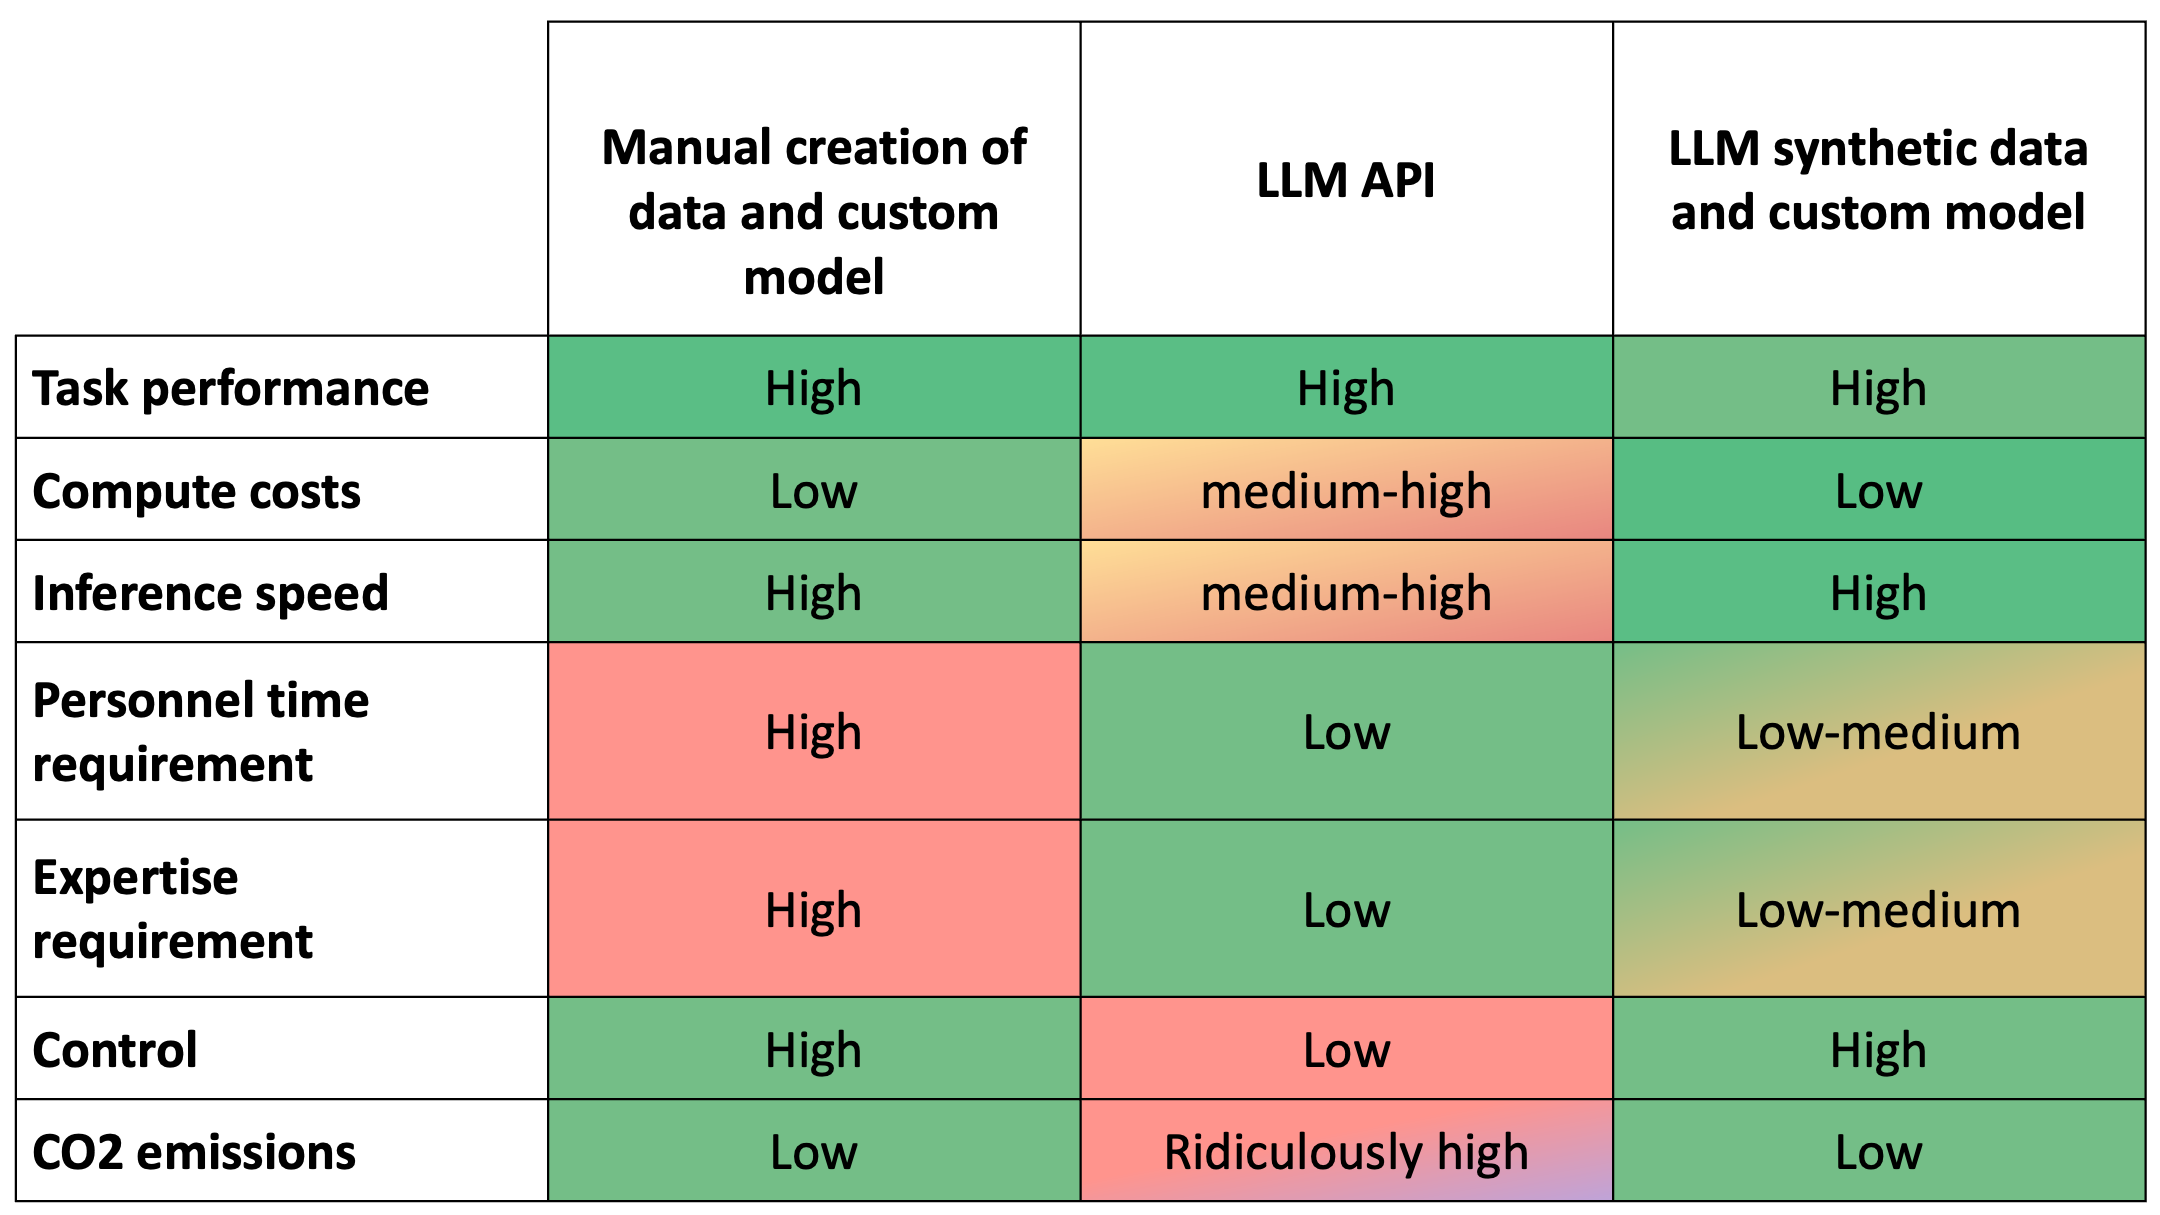
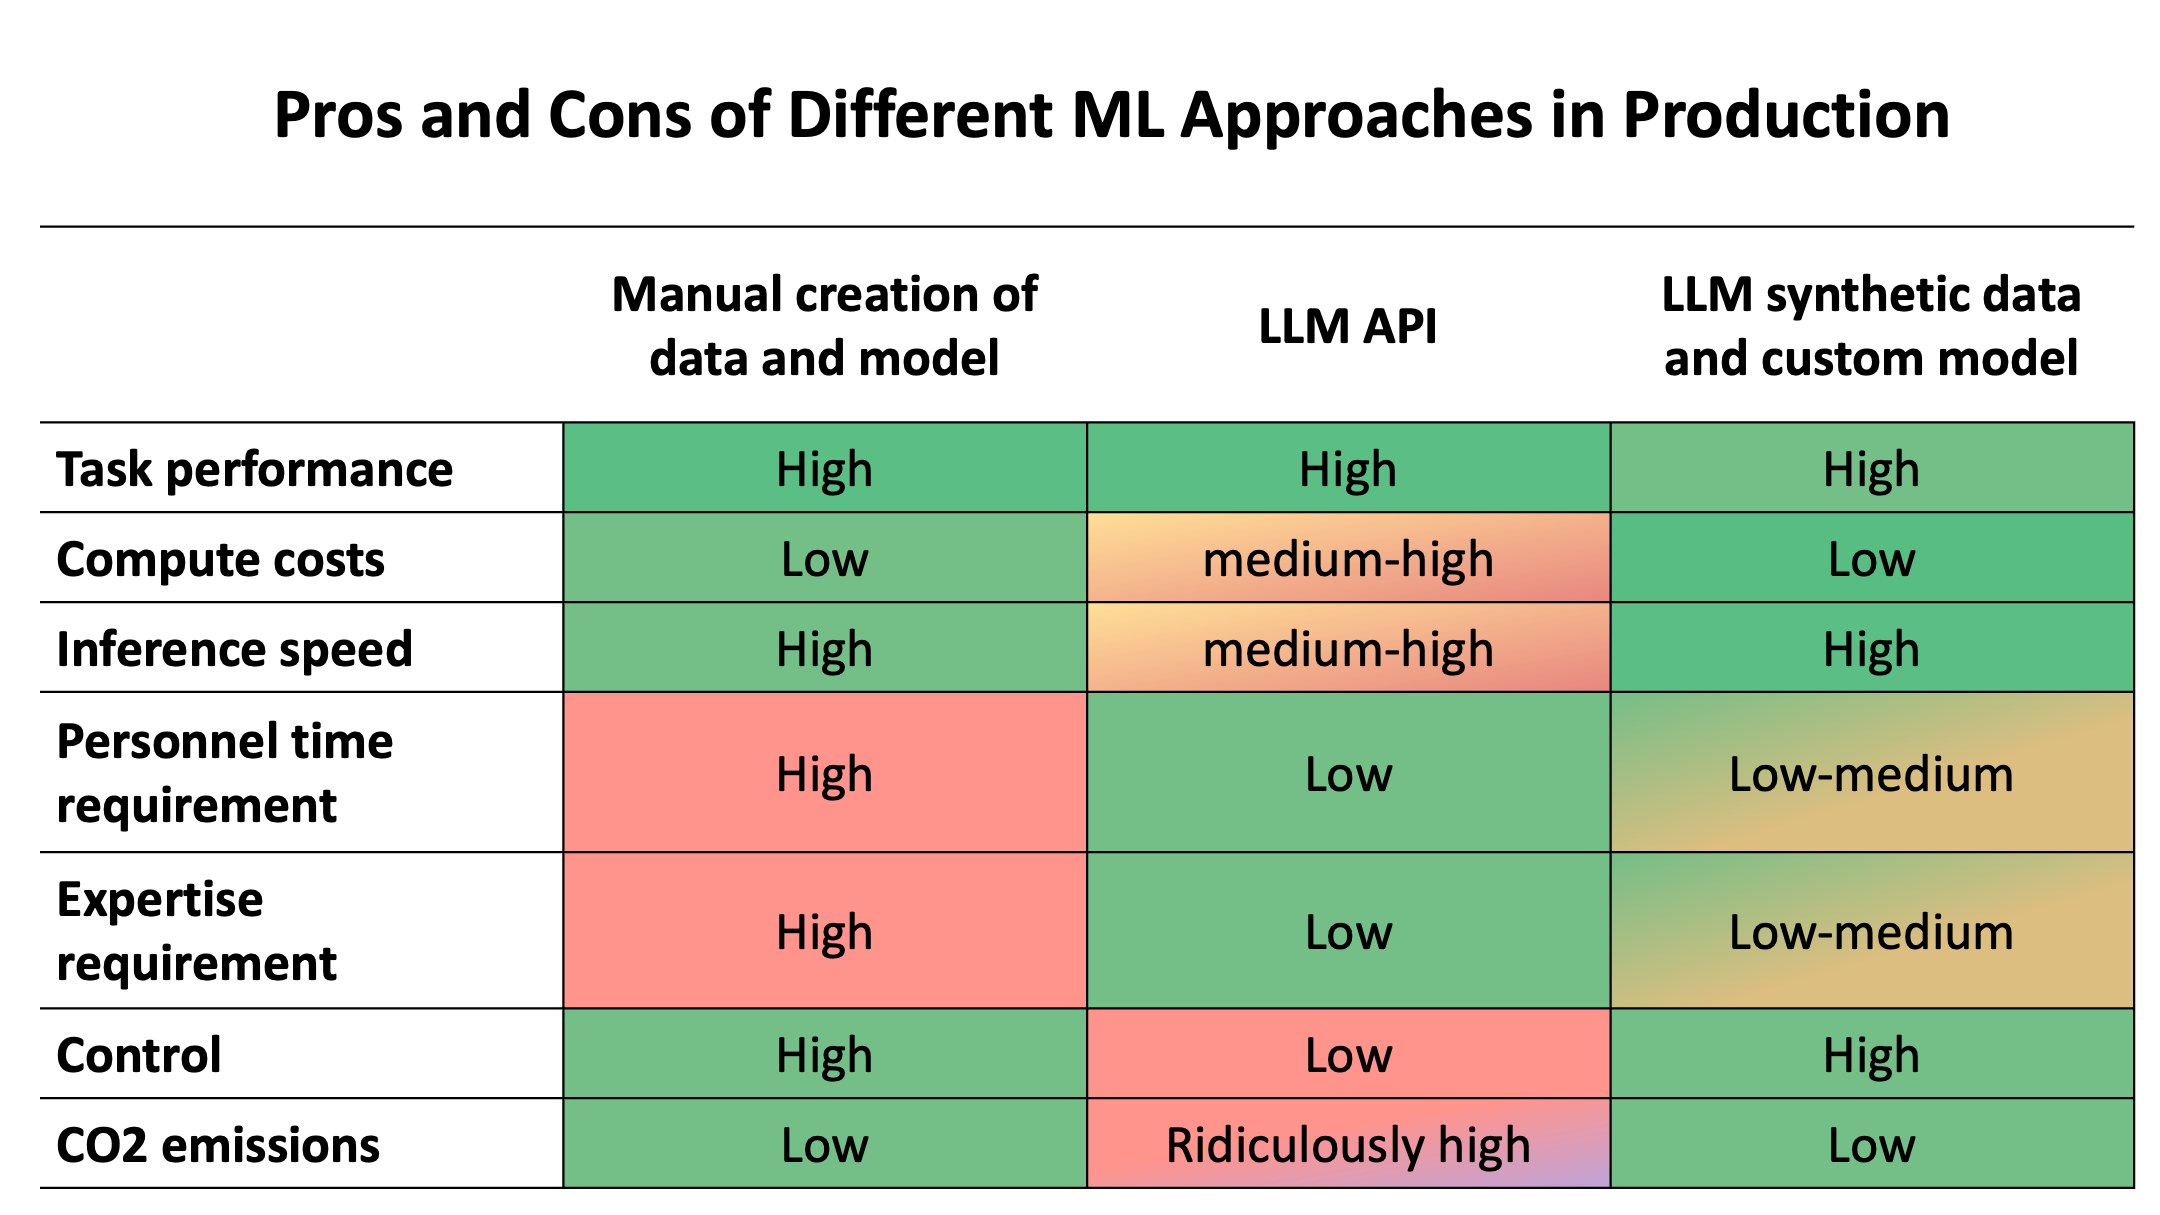
pro con table update

Changed region(s): [[0.0, 0.0305, 1.0, 1.0], [0.7444, 0.8831, 0.7755, 0.9136], [0.4963, 0.1827, 0.5273, 0.2132]]

diff --git a/synthetic-data-save-costs.md b/synthetic-data-save-costs.md
@@ -14,16 +14,6 @@ Should you fine-tune your own model or use an LLM API? Creating your own model p
 
 In a case-study on identifying investor sentiment in news, we shows how you can use an open-source LLM to create synthetic data to train your own customized model in a few steps. Our resulting custom RoBERTa model can analyze a large news corpus for around $2.7 compared to $3061 with GPT4; emits around 0.12 kg CO2 compared to 865 kg CO2 with GPT4; with a latency of 0.13 seconds compared to often multiple seconds with GPT4; while performing on-par with GPT4 at identifying investor sentiment (both 94% accuracy and 0.94 F1 macro).
 
-|  | Manual creation of data and custom model | LLM API | LLM synthetic data and custom model |
-| --- | --- | --- | --- |
-| Task performance | High | High | High |
-| Compute costs | Low | medium-high | Low |
-| Inference speed | High | medium-high | High |
-| Personnel time requirement | High | Low | Low-medium |
-| Expertise requirement | High | Low | Low-medium |
-| Control | High | Low | High |
-| CO2 emissions | Low | Ridiculously high | Low |
-
 <p align="center">
     <img src="https://github.com/huggingface/blog/blob/moritzlaurer/synthetic-data-save-costs/assets/176_synthetic-data-save-costs/table_pros_cons.png?raw=true" alt="table_pros_cons" width=95%>
 </p>
@@ -343,16 +333,6 @@ If you want, you can also use AutoTrain entirely locally on your own hardware, s
 ### 3.4 Performance and cost comparison
 
 How do these different approaches compare? The table below displays the trade-offs across different factors and we discuss different metrics based on our example dataset underneath. 
-
-|  | Manual creation of data and custom model | LLM API | LLM synthetic data and custom model |
-| --- | --- | --- | --- |
-| Task performance | High | High | High |
-| Compute costs | Low | medium-high | Low |
-| Inference speed | High | medium-high | High |
-| Personnel time requirement | High | Low | Low-medium |
-| Expertise requirement | High | Low | Low-medium |
-| Control | High | Low | High |
-| CO2 emissions | Low | Ridiculously high | Low |
 
 <p align="center">
     <img src="https://github.com/huggingface/blog/blob/moritzlaurer/synthetic-data-save-costs/assets/176_synthetic-data-save-costs/table_pros_cons.png?raw=true" alt="table_pros_cons" width=95%>
